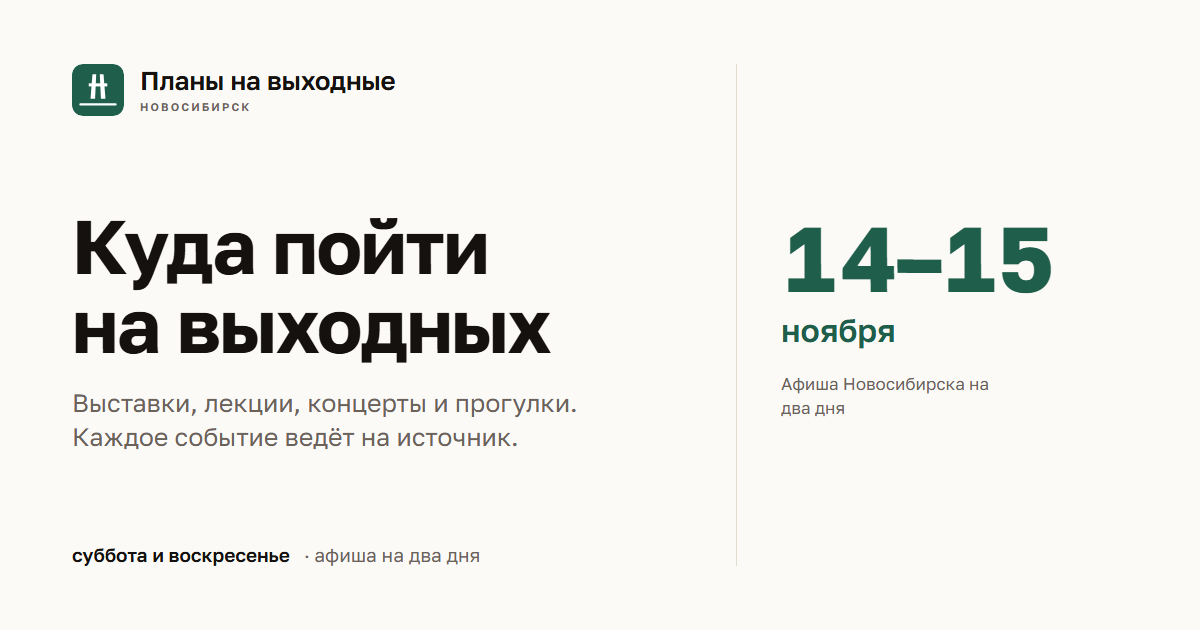
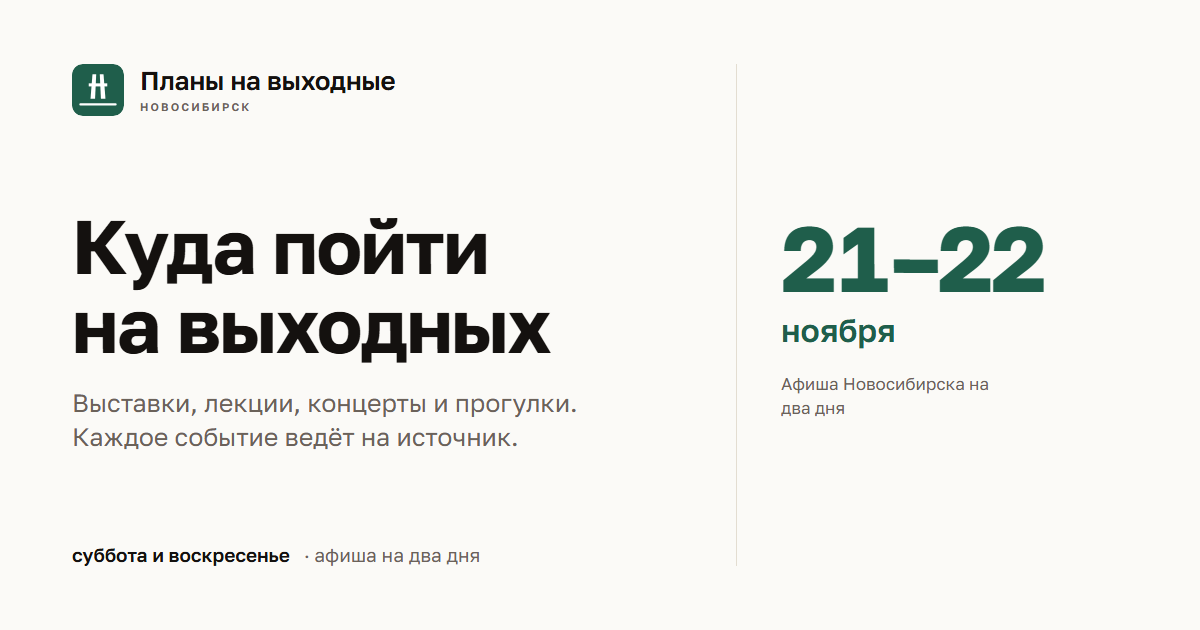
Add files via upload

Changed region(s): [[0.6475, 0.3619, 0.8942, 0.4825]]

diff --git a/README.md b/README.md
@@ -1,219 +1,64 @@
-# Планы на выходные · Новосибирск
+# open-slide workspace
 
-![Планы на выходные · Новосибирск](og.png)
+Slides as React components. Each slide lives under `slides/<id>/index.tsx` and default-exports an array of page components. The `@open-slide/core` runtime handles layout, scaling, navigation, thumbnails, and fullscreen play mode — you just write the pages.
 
-Каталог событий Новосибирска на ближайшие субботу и воскресенье: 19 площадок
-собираются автоматически, анонсы сокращаются до двух предложений, афиши
-подгружаются по ссылке источника. Там, где машинной афиши нет — парки с датами
-на картинках, посты во «ВКонтакте», — событие вносится текстом и разбирается тем
-же кодом. Публикация — дважды в неделю.
-
-**Сайт:** https://photoalisa.github.io/plany-na-vyhodnye/
-
----
-
-## Задача
-
-Яндекс Афиша и крупные агрегаторы показывают коммерческий прокат и концерты звёзд.
-Камерные выставки, лекции библиотек, встречи в креативных пространствах и поездки
-за город остаются вне их поля зрения, хотя именно из них складываются планы на
-выходные. Человек тратит вечер на обход десятка сайтов разной степени удобства.
-
-Проект решает это так: собирает события из 22 источников, приводит их к одной схеме,
-отбрасывает дубли и нерелевантное и отдаёт короткий каталог с быстрыми фильтрами
-по житейским ситуациям — бесплатно, с детьми, с животными, прогулки и природа, за городом.
-
-## Как устроено
-
-```
-22 источника → parsers/*.py → нормализация и дедупликация (common/*)
-   → Google-таблица nsk_weekend → scripts/build_site.py → статический HTML
-   → GitHub Actions → GitHub Pages
-```
-
-* **Сбор.** По модулю на источник: `parsers/cc19.py`, `parsers/ngonb.py`,
-  `parsers/iskmuseum.py` и так далее. Парсер отдаёт сырые события и не разбирает
-  даты — это делает ядро.
-* **Нормализация.** `common/dates.py` понимает 16 форматов периодов, включая
-  «постоянная экспозиция» и «каждую субботу». `common/text.py` чистит анонс,
-  вытаскивает цену, определяет район и признаки фильтров.
-* **Дедупликация.** Одно событие из нескольких источников попадает в каталог один раз.
-* **Хранение.** Google-таблица `nsk_weekend` — единственный источник данных для сайта.
-  Правка карточки не требует релиза кода.
-* **Сборка.** `scripts/build_site.py` читает таблицу, фильтрует выходные и генерирует
-  статические страницы: каталог, пять тематических подборок, раздел статей, 404,
-  `sitemap.xml`, `robots.txt`, `llms.txt`.
-* **Ручной контур.** `scripts/manual_add.py` берёт текст анонса из `content/manual/*.txt`
-  и превращает его в строку таблицы: дата, время, площадка, цена, возраст, афиша,
-  признаки фильтров. Повторная вставка обновляет строку, а не создаёт дубль.
-  Скопированные подряд посты ВК распознаются и переводятся в поля автоматически
-  (заголовок — первая строка поста, его правят в таблице); `--from-vk` нужен,
-  если черновик хочется посмотреть до записи.
-  В облаке это делает workflow «Ручные события» — по загрузке текста и в еженедельном
-  прогоне.
-* **Публикация.** Три workflow: «Парсинг афиши» (пн и пт, 05:00 НСК), «Публикация
-  сайта» (пн и пт, 09:00 НСК) и «Ручные события» (на загрузку текста). Четыре часа
-  между сбором и публикацией — время посмотреть таблицу и поправить карточки.
-  Время в расписании — ориентир: плановые прогоны GitHub ставит в очередь, поэтому
-  публикацию в дни выпуска запускают кнопкой **Run workflow**, не дожидаясь 09:00.
-* **Доступность.** Семантическая разметка с ориентиром `main`, ссылка «Перейти
-  к содержимому», `alt` у афиш, заголовки `h1`/`h2`/`h3` по смыслу, озвучивание
-  счётчика через `aria-live`, `aria-current` у подборок, видимый фокус с клавиатуры,
-  контраст текста по WCAG AA.
-
-## Схема таблицы `nsk_weekend` (31 колонка)
-
-| Группа | Поля |
-|---|---|
-| Идентификация | `id`, `source` |
-| Текст | `title`, `text_short`, `text_raw` |
-| Даты | `date_raw`, `date_start`, `date_end`, `kind`, `time_text` |
-| Место | `venue`, `address`, `district`, `geo_area` |
-| Классификация | `category`, `tags` |
-| Цена | `price_text`, `is_free` |
-| Признаки фильтров | `is_child_ok`, `is_dog_ok`, `is_nature`, `is_outside_city`, `is_child_friendly` |
-| Маркировка и доступность | `age`, `open_days` |
-| Изображение | `image_url`, `image_ok` |
-| Служебные | `source_url`, `status`, `parsed_at`, `checked_at` |
-
-Служебные листы: `hidden` — скрытые вручную записи, `closures` — закрытия площадок
-на дату или по дням недели (музей, который не работает в воскресенье, не должен
-попадать в воскресную подборку).
-
-Новые колонки добавляются только в конец — чтобы не сдвигать существующие данные.
-
-## Что здесь есть
-
-```
-config.py                 реестр источников (имя, модуль, площадка, район, приоритет)
-parser_main.py            запуск: сбор, дедупликация, запись в Google Sheets
-check.py                  проверка без Google: что собрали и что отбросили
-common/dates.py           разбор периодов и определение актуальности выходных
-common/http.py            сессия, ретраи, дисковый кэш, параллельный обход, проверка картинок
-common/text.py            очистка текста, цена, фильтры, районы, возрастная маркировка
-common/model.py           модель события и схема таблицы
-common/validate.py        валидация обязательных полей и доменов
-common/sheets.py          upsert в Google Sheets, архив прошедших, лог прогонов
-common/collect.py         параллельный запуск парсеров, дедупликация
-common/closures.py        закрытия площадок: разовые даты и дни недели
-common/articles.py        статьи: front-matter, разметка, текст
-parsers/*.py              22 источника
-scripts/build_site.py     генерация сайта из таблицы
-scripts/hero_engraving.ps1 гравюры первого экрана корневой страницы из src/hero-refs
-yandex-root/              корневая страница домена (первый экран), в сборку не входит
-content/articles/*.md     статьи
-static/                   файлы, попадающие в корень сайта (og.png, подтверждения сервисов)
-.github/workflows/        расписание парсинга и публикации
-```
-
-## Запуск
+## Getting started
 
 ```bash
-pip install -r requirements.txt
-playwright install chromium        # только для parsers/mega.py
-
-python parser_main.py                 # собрать и обновить Google Sheets
-python parser_main.py --csv           # только в out/nsk_weekend.csv, без Google
-python parser_main.py --source ЦК19   # один источник
-python parser_main.py --no-images     # без HEAD-проверки афиш (быстрее)
-python parser_main.py --refresh       # игнорировать кэш страниц
-python parser_main.py --close "<площадка>" вс   # закрыть площадку в воскресенье
-python scripts/build_site.py --out public --base /plany-na-vyhodnye/ --sheet
+pnpm install
+pnpm dev
 ```
 
-`credentials.json` сервисного аккаунта Google кладётся в корень и в репозиторий
-не попадает. В GitHub Actions он подставляется из секрета `GOOGLE_CREDENTIALS`.
+Then open the dev server and edit `slides/getting-started/index.tsx`, or create a new slide at `slides/<your-slide>/index.tsx`.
 
-## Как проверить, что всё работает
+## Scripts
 
-**Быстрая проверка без Google:**
+| Command | Description |
+| --- | --- |
+| `pnpm dev` | Start the dev server with hot reload. |
+| `pnpm build` | Build a static bundle you can deploy. |
+| `pnpm preview` | Preview the built bundle locally. |
 
-```bash
-python check.py --no-images
+## Authoring a slide
+
+```tsx
+// slides/my-slide/index.tsx
+import type { Page, SlideMeta } from '@open-slide/core';
+
+const Cover: Page = () => (
+  <div style={{ width: '100%', height: '100%' }}>Hello</div>
+);
+
+export const meta: SlideMeta = { title: 'My slide' };
+export default [Cover] satisfies Page[];
 ```
 
-Ожидаемо: 19–22 источника, 250–350 сырых событий, 200–250 годных. Пустые
-источники внизу — норма: у них может не быть событий на эти выходные.
+Every page renders into a fixed **1920 × 1080** canvas — design with absolute pixel values. Put images, videos, and fonts under `slides/<id>/assets/` and import them directly.
 
-**Один источник, когда что-то сломалось:**
+See [`CLAUDE.md`](./CLAUDE.md) for the full authoring guide.
 
-```bash
-python check.py --source kulturansk --sample 5
+## Navigation
+
+- Arrow keys / PageUp / PageDown move between pages.
+- `F` enters fullscreen play mode; Esc exits.
+- In play mode: Space / → next, ← prev.
+
+## Claude Code integration
+
+This workspace ships with Claude Code skills preconfigured under `.claude/skills/` and `.agents/skills/`. Ask Claude Code to "make slides about X" and the `create-slide` skill takes over. Use `apply-comments` to iterate via inspector-style markers inside your source.
+
+## Config
+
+Optional `open-slide.config.ts` at the workspace root:
+
+```ts
+import type { OpenSlideConfig } from '@open-slide/core';
+
+const openSlideConfig: OpenSlideConfig = {
+  port: 5173,
+};
+
+export default openSlideConfig;
 ```
 
-В консоли видно число карточек на странице и причины отказов. «Карточек: 0» —
-поменялась вёрстка, правится селектор в `parsers/<источник>.py`.
-
-**Данные глазами (важнее всего):** открыть `out/nsk_weekend.csv` и проверить, что
-`date_end` не раньше `date_start`, `image_ok` не врёт, `price_text` согласован
-с `is_free`, а `district` пустой там, где район не определён, а не «Центральный»
-по умолчанию.
-
-## Ограничения (известные и принятые)
-
-* **Аура** отдаёт `ConnectionError` при частых запросах — модуль ходит по одной
-  странице с паузой и пропускает источник при блокировке.
-* **Музей Новосибирска** указывает только дату окончания выставки («до 31 декабря»):
-  начало считаем от даты прогона, адрес и филиал разбираем из текста страницы.
-* **Парки** публикуют расписание картинками — даты машинно не читаются, события
-  вносятся текстом через `content/manual/` и разбираются тем же кодом.
-* **Студия 84** — Tilda Zero Block без фида, разбор по тексту блоков; при смене
-  вёрстки вернёт пусто.
-* **МЕГА** требует Playwright.
-* **Афиши** не хранятся у нас: ссылка проверяется HEAD-запросом, при 404/403
-  карточка получает плейсхолдер.
-* **Возрастная маркировка** берётся только из анонса источника. Часть площадок
-  её не публикует, поэтому метка стоит не у всех карточек: достоверность важнее полноты.
-* **Расписание GitHub Actions — «не раньше», а не «ровно».** Плановые прогоны идут
-  через общую очередь: 9.11 парсинг стартовал в 08:18 вместо 05:00, 13.11 — в 09:17,
-  а публикация, назначенная на 09:00, вышла в 16:07. При этом всё зелёное, поэтому
-  в дни выпуска прогон проверяют в Actions и при необходимости запускают вручную.
-* **Расписание GitHub Actions отключается** после 60 дней без коммитов
-  в публичном репозитории — раз в месяц нужен «коммит-пульс» или ручной запуск.
-
-## Правовая часть
-
-* **152-ФЗ.** Сайт не собирает персональные данные: нет регистрации, личных
-  кабинетов, форм с email и телефоном. Обратная связь — форма с единственным полем
-  «ссылка на источник».
-* **436-ФЗ.** Возрастная метка выводится в карточке, если источник её публикует.
-* **Изображения.** Загружаются по внешней ссылке (hotlinking), на серверах сайта
-  не хранятся; по жалобе правообладателя карточка правится или удаляется.
-* **Информационное посредничество.** Карточка ведёт на страницу источника —
-  сайт организатора, билетный сервис или сообщество — в новой вкладке
-  (ст. 1253.1 ГК РФ).
-* **Аналитика.** GoatCounter: без cookie, без идентификаторов посетителя, без
-  хранения IP. Cookie-баннер и уведомление РКН не требуются.
-* **Реклама.** На текущем этапе размещений нет, маркировка ОРД не требуется.
-
-## Документы
-
-* `docs/HANDOVER.md` — состояние проекта, ключевые решения и история изменений по датам
-* `docs/site-build.md` — как собирается сайт
-* `docs/site-plan.md` — структура сайта и визуальный язык
-* `docs/google-sheets-setup.md` — настройка таблицы и сервисного аккаунта
-* `docs/УСТАВ ПРОЕКТА ... V2.0.md` — цели, границы, риски, метрики
-
-## Расширение
-
-Новый источник — один файл `parsers/имя.py` с функцией `fetch()`, возвращающей
-список словарей:
-
-```python
-{
-    "title": "...",                        # обязательно
-    "date_raw": "15 октября - 15 ноября",  # обязательно, строкой как на сайте
-    "source_url": "https://...",           # обязательно
-    "text_raw": "...",                     # обязательно, полный текст
-    "image_url": "...", "venue": "...", "district": "...",
-    "category": "...", "tags": "...", "price_text": "...", "kind_hint": "",
-}
-```
-
-Даты, актуальность и фильтры считает ядро. Регистрация — строка в `SOURCES`
-в `config.py`.
-
----
-
-Некоммерческий пет-проект. Бюджет — 0 ₽: GitHub Pages, Google Sheets в бесплатных
-квотах, GoatCounter на бесплатном тарифе.
+Supported fields: `slidesDir`, `port`.
